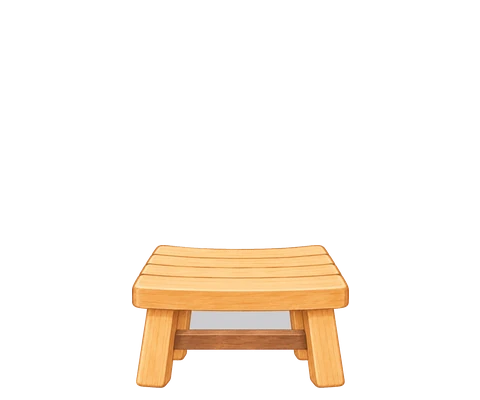
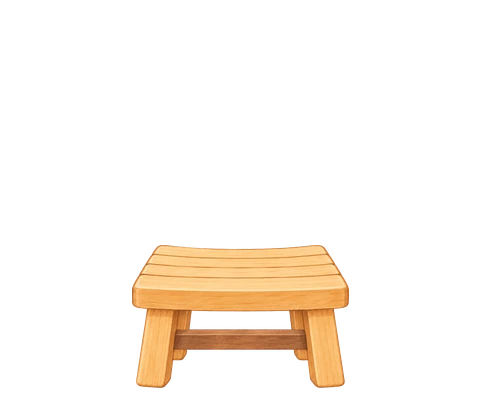
Ryokan: clear the backdrop gap under the stool
Adds CLEAR_HOLES so enclosed backdrop (between the stool's legs) is transparent.

Claude-Session: https://claude.ai/code/session_01VJmVSm578cqqvqvA9X3P2b

Changed region(s): [[0.375, 0.75, 0.625, 0.84]]

diff --git a/tools/process_art.py b/tools/process_art.py
@@ -78,6 +78,8 @@ FRONT_WALLS = {
 }
 
 POSE_RE = re.compile(r'^(?P<cat>[a-z]+)-(?P<pose>sit|sleep|lie|head|ride|face|half|soak)(?:-(?P<n>\d+))?$')
+# Items where the backdrop seen through gaps (e.g. between a stool's legs) should be transparent too.
+CLEAR_HOLES = {'stool'}
 # Items made from another item's raw image, at their own size (e.g. the XL taiyaki the cat rides).
 ITEM_SOURCE = {'taiyaki-xl': 'taiyaki'}
 # Items whose raw file name is not a plain slug (spaces, or a name from the generator), under the name the game uses.
@@ -118,8 +120,9 @@ def edge_connected(mask):
         reach = grow
 
 
-def cut_out(rgb):
-    """Return (rgba float 0..255 / 0..1, background colour, was_green)."""
+def cut_out(rgb, clear_holes=False):
+    """Return (rgba float 0..255 / 0..1, background colour, was_green).
+    clear_holes: make backdrop seen through gaps in the subject transparent too (for items like a stool)."""
     bg = border_colour(rgb)
     dist = np.linalg.norm(rgb - bg, axis=-1)
     # Only pixels MORE saturated than the backdrop count as colourful subject.
@@ -132,7 +135,7 @@ def cut_out(rgb):
     loose = alpha < 0.5
     outside = edge_connected(loose)                       # backdrop touching the edge
     alpha = np.where(outside, 0.0, alpha)
-    alpha = np.where(loose & ~outside, 1.0, alpha)        # holes inside the subject stay opaque
+    alpha = np.where(loose & ~outside, 0.0 if clear_holes else 1.0, alpha)  # holes inside the subject stay opaque unless cleared
     alpha = np.where(alpha < 0.05, 0.0, alpha)
 
     # De-fringe: un-mix the backdrop from partly transparent edge pixels.
@@ -306,7 +309,7 @@ def process_item(name, path, scale, log):
     """scale is shared by every item, so an object drawn at the reference cat's size
     comes out at the reference cat's size in the yard."""
     scale = scale * OBJECT_SIZE.get(name, 1.0)
-    rgba, bg, green = cut_out(load(path))
+    rgba, bg, green = cut_out(load(path), clear_holes=name in CLEAR_HOLES)
     if name in SHADOW_CUT:
         rgba = drop_shadow(rgba, from_frac=SHADOW_CUT[name])
     ys, xs = np.where(rgba[..., 3] > TRIM_ALPHA)
